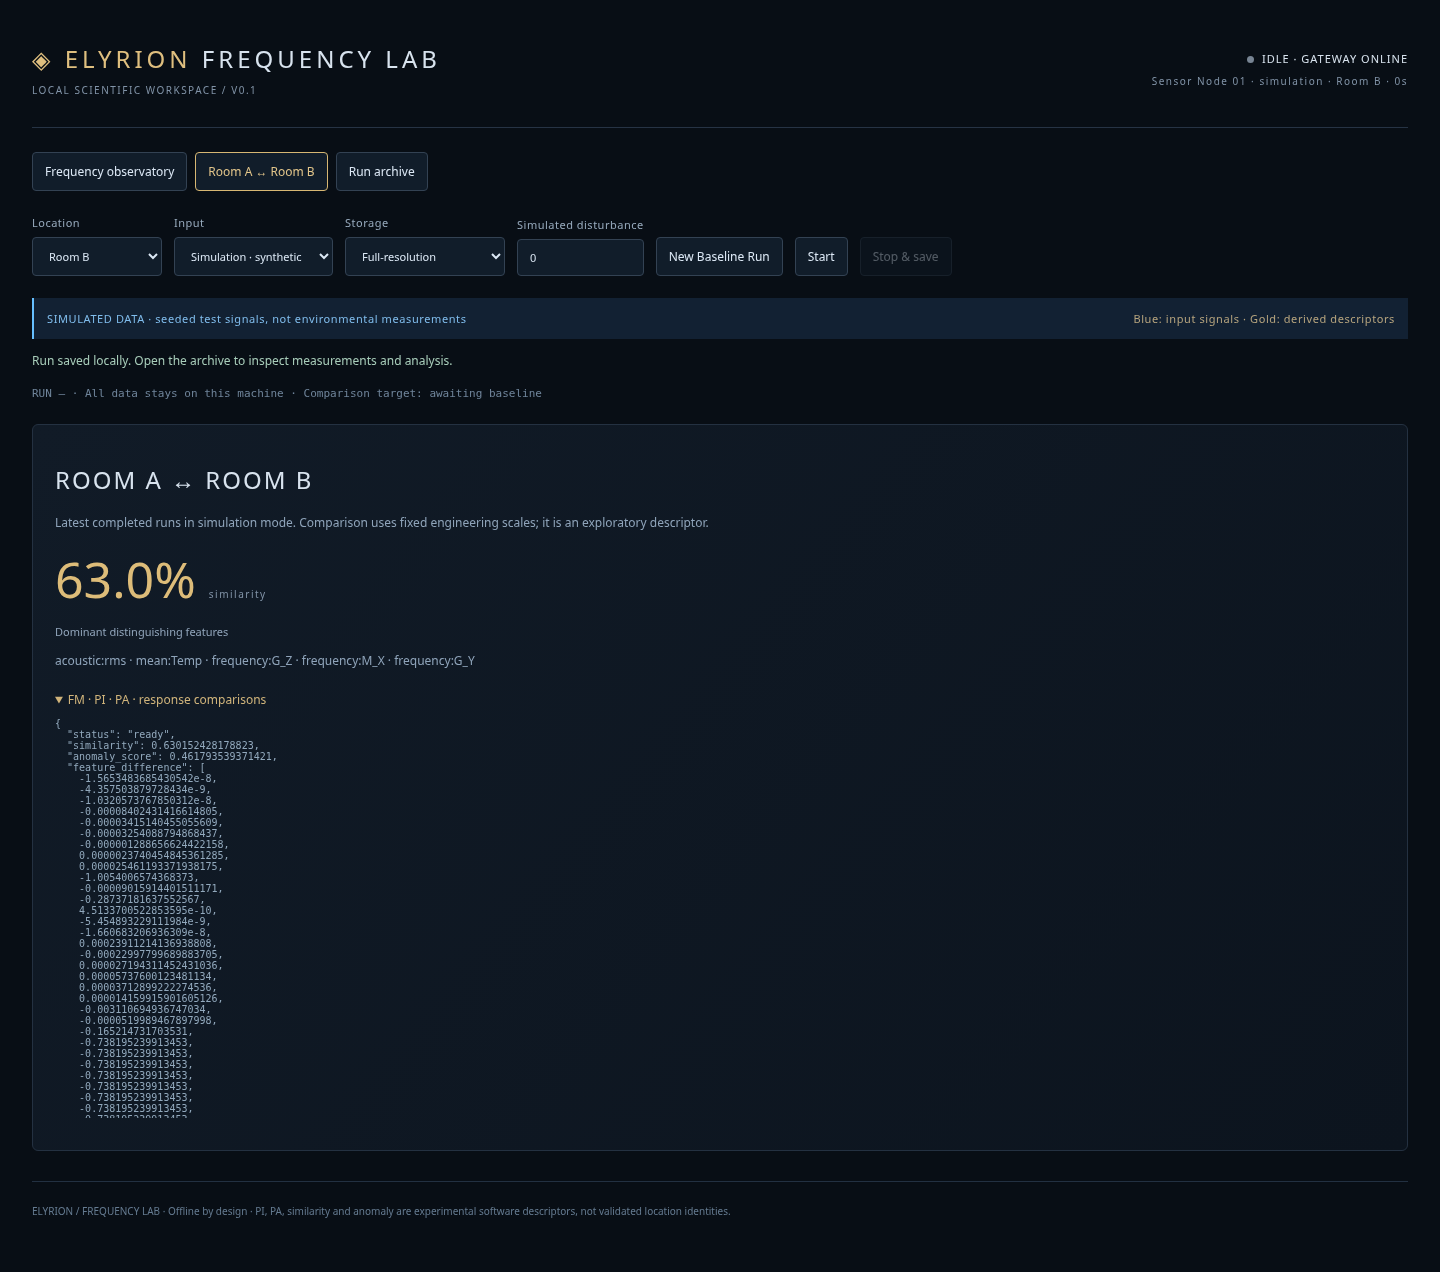
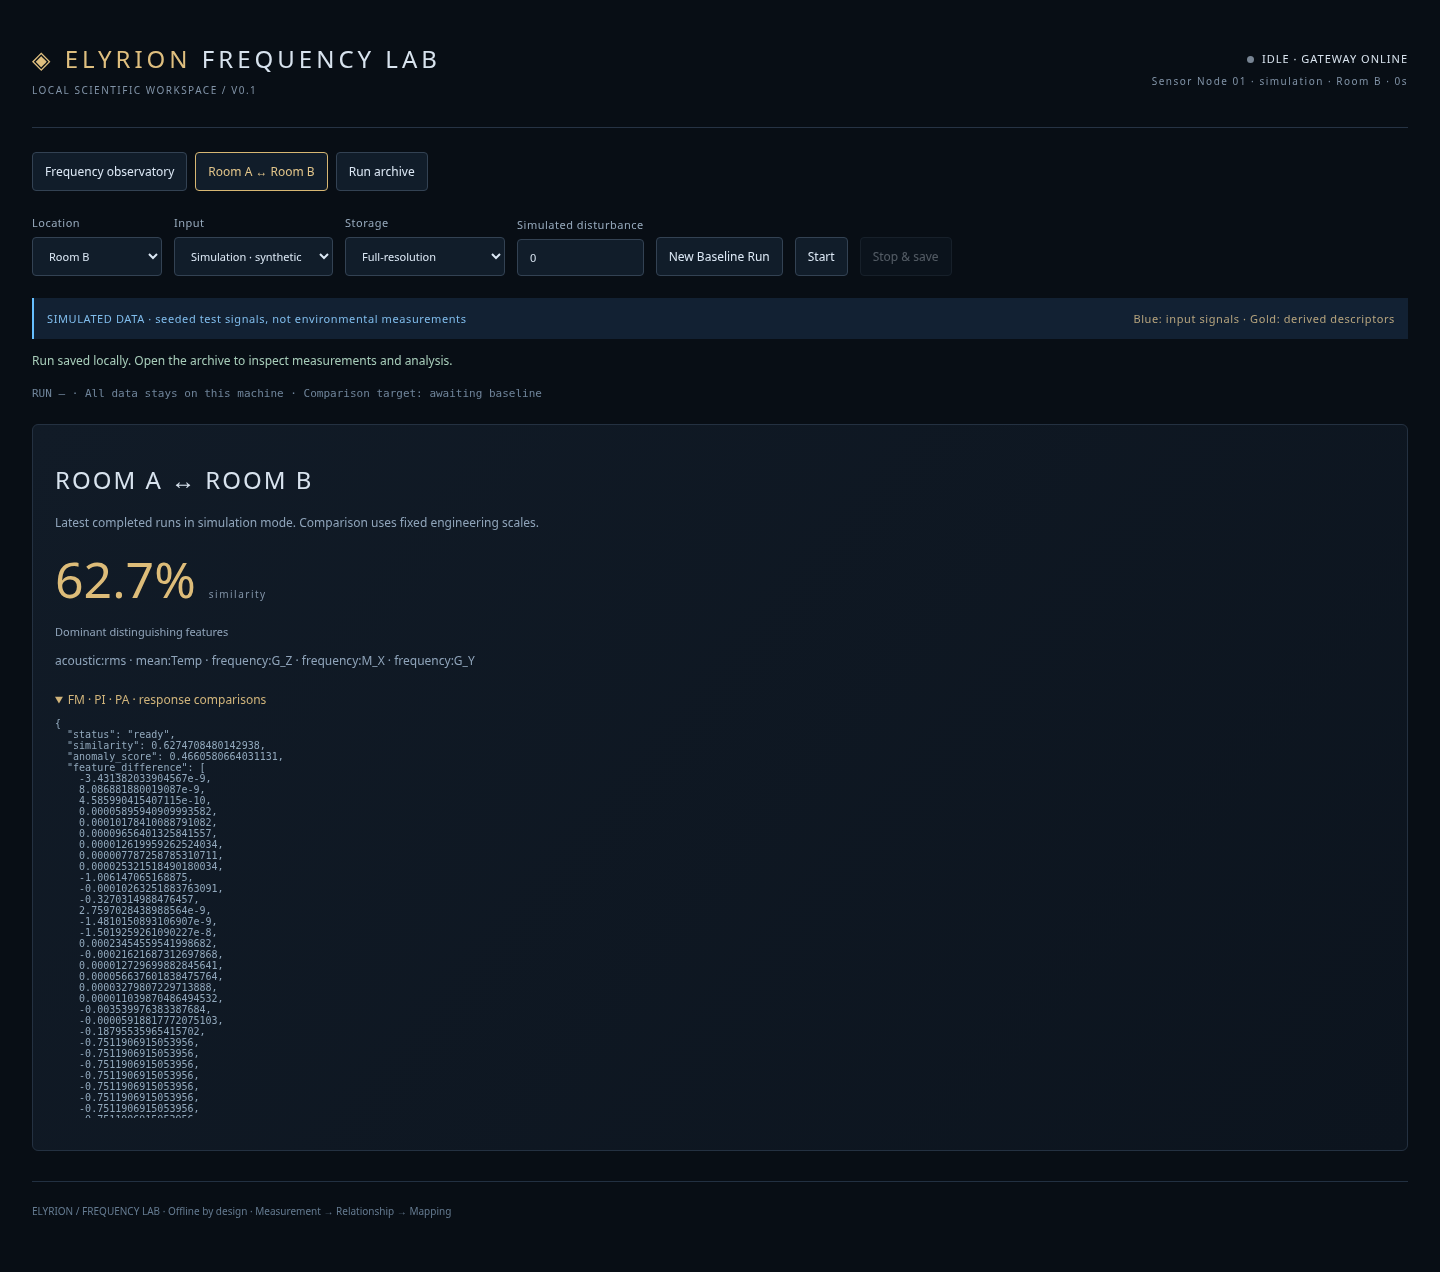
Use neutral PI and PA definitions and dashboard wording

diff --git a/ui/src/main.tsx b/ui/src/main.tsx
@@ -42,12 +42,12 @@ function App(){
   <div className="notice">{(live.run?.source??source)==='simulation'?'SIMULATED DATA · seeded test signals, not environmental measurements':'HARDWARE MODE · uncalibrated channels must not be interpreted as calibrated measurements'} <span>Blue: input signals · Gold: derived descriptors</span></div>
   {error&&<div role="alert" className="error">{error}</div>}{live.error&&<div role="alert" className="error">Acquisition: {live.error}</div>}{message&&<p role="status" className="message">{message}</p>}
   <div className="runid">RUN {live.run?.id??'—'} · All data stays on this machine · Comparison target: {live.comparison_target??'awaiting baseline'}</div>
-  {view==='compare'?<section className="panel"><h1>ROOM A ↔ ROOM B</h1><p>Latest completed runs in {source} mode. Comparison uses fixed engineering scales; it is an exploratory descriptor.</p>{comparison?.status==='ready'?<><div className="big gold">{(comparison.similarity*100).toFixed(1)}% <small>similarity</small></div><h3>Dominant distinguishing features</h3><p>{comparison.dominant_features.join(' · ')}</p><details open><summary>FM · PI · PA · response comparisons</summary><Json value={comparison}/></details></>:<p>{comparison?.status??'Loading'}</p>}</section>:<>
+  {view==='compare'?<section className="panel"><h1>ROOM A ↔ ROOM B</h1><p>Latest completed runs in {source} mode. Comparison uses fixed engineering scales.</p>{comparison?.status==='ready'?<><div className="big gold">{(comparison.similarity*100).toFixed(1)}% <small>similarity</small></div><h3>Dominant distinguishing features</h3><p>{comparison.dominant_features.join(' · ')}</p><details open><summary>FM · PI · PA · response comparisons</summary><Json value={comparison}/></details></>:<p>{comparison?.status??'Loading'}</p>}</section>:<>
   {view==='archive'&&<section className="panel"><h1>Run archive</h1>{runs.length===0&&<p>No recorded runs yet.</p>}<div className="runlist">{runs.map(r=><button key={r.id} onClick={()=>act(async()=>setArchive(await api('runs/'+r.id)))}>{r.room} · {r.source} · {r.status}<small>{r.started_at} · {r.id.slice(0,8)}</small></button>)}</div>{archive&&<><h3>{archive.run.room} / {archive.run.id}</h3><details><summary>Events, response functions, metadata, raw measurements</summary><Json value={archive}/></details></>}</section>}
   <div className="cards">{[['Frequency Map',fm?.status??'Collecting baseline'],['Persistent Invariant',(archive?.pi??live.pi)?.status??'Insufficient runs for PI'],['Dynamic State',pa?.dynamic?'Relative to PI available':'Requires qualifying PI'],['Pulse Address',pa?.status??'PA preliminary'],['Similarity to Baseline',view==='archive'?'See recorded state':live.baseline?.similarity!=null?`${(live.baseline.similarity*100).toFixed(1)}%`:live.baseline?.status??'Collecting baseline'],['Anomaly Score',view==='archive'?'See recorded state':live.baseline?.anomaly_score?.toFixed(3)??'Requires baseline'],['Response Function',live.post_window_pending?'Collecting post-window':(archive?.responses?.at(-1)??live.response)?.status??'No perturbation recorded'],['Comparison Target',view==='archive'?archive?.run?.room??'Select run':live.comparison_target?.slice(0,8)??'Requires baseline']].map(([title,value])=><section className="panel metric" key={title}><h2>{title}</h2><div className="gold">{value}</div></section>)}</div>
   <div className="grid"><section className="panel"><h2>Sensor state / live traces</h2><div className="channels">{['M_X','M_Y','M_Z','A_X','A_Y','A_Z','G_X','G_Y','G_Z','Temp','H','Pressure'].map(c=><div key={c}><h3>{c} <span>{traces.at(-1)?.values[c]?.toPrecision(5)??'—'} {live.units?.[c]}</span></h3><Trace values={traces.map((f:Data)=>f.values[c])}/></div>)}</div></section><section className="panel"><h2>Acoustic field</h2><p>Digital RMS: {fm?.acoustic?.rms?.toFixed(5)??'—'} · Not calibrated dB SPL</p><Trace values={traces.map((f:Data)=>f.acoustic_rms??Math.sqrt(f.acoustic_samples.reduce((s:number,v:number)=>s+v*v,0)/f.acoustic_samples.length))}/><h3>Power spectral density / 0–{(live.latest?.acoustic_sampling_rate??8000)/2000} kHz</h3><Trace color="#d9b971" values={fm?.acoustic?.psd?.map((v:number)=>10*Math.log10(Math.max(v,1e-12)))??[]}/><h3>Spectrogram</h3>{fm?.acoustic?.spectrogram?<Spectrogram data={fm.acoustic.spectrogram}/>:<p>Collecting acoustic window</p>}<details><summary>Frequency Map / relationships / Pulse Address</summary><Json value={{fm,pa,pi:archive?.pi??live.pi,response:archive?.responses??live.response}}/></details></section></div>
   {view==='live'&&<div className="grid"><section className="panel"><h2>Event marker</h2><label>Event<select value={kind} onChange={e=>setKind(e.target.value)}>{events.map(e=><option key={e}>{e}</option>)}</select></label><label>Notes<textarea value={note} onChange={e=>setNote(e.target.value)} placeholder="Observation, context, or custom note"/></label><button disabled={!live.run} onClick={()=>act(async()=>{const e=await api('events',{kind,note});setMessage(`${kind} recorded at ${e.timestamp}`);setNote('')})}>Mark event</button><button disabled={!live.run} onClick={()=>act(async()=>{await api(`raw/${!live.manual_raw}`,{});setMessage(live.manual_raw?'Manual raw retention stopped':'Manual raw retention started')})}>{live.manual_raw?'Stop raw interval':'Retain raw interval'}</button></section><section className="panel"><h2>Acoustic perturbation</h2><p>Browser audio → laptop output → wired speaker. Start at low volume. Simulation injects a synthetic tone as well.</p><label>Waveform<select value={tone.kind} onChange={e=>setTone({...tone,kind:e.target.value})}>{['single','stepped','linear','logarithmic'].map(k=><option key={k}>{k}</option>)}</select></label><div className="tonefields">{Object.entries(tone).filter(([k])=>k!=='kind').map(([k,v])=><label key={k}>{k.replaceAll('_',' ')}<input type="number" step="any" value={v} onChange={e=>setTone({...tone,[k]:Number(e.target.value)})}/></label>)}</div><button disabled={!live.run||!!live.perturbation||live.post_window_pending} onClick={()=>act(perturb)}>Start Acoustic Perturbation</button><button disabled={!live.perturbation} onClick={()=>act(async()=>{stopAudio();await api('perturbations/stop',{})})}>Stop Acoustic Perturbation</button><p className="gold">{live.perturbation?'Tone active · recording response':live.post_window_pending?'Collecting post-window · keep run active':'Pre/during/post windows are stored with the run.'}</p></section></div>}
   </>}
-  <footer>ELYRION / FREQUENCY LAB · Offline by design · PI, PA, similarity and anomaly are experimental software descriptors, not validated location identities.</footer></main>
+  <footer>ELYRION / FREQUENCY LAB · Offline by design · Measurement → Relationship → Mapping</footer></main>
 }
 createRoot(document.getElementById('root')!).render(<React.StrictMode><App/></React.StrictMode>);

diff --git a/lab/engine.py b/lab/engine.py
@@ -1,4 +1,4 @@
-"""Deterministic, versioned exploratory descriptors; no physical identity claims."""
+"""Deterministic, versioned signal analysis and relational state descriptors."""
 import hashlib
 import json
 import numpy as np
@@ -75,7 +75,7 @@ def persistent_invariant(maps):
         return {"status": "Insufficient runs for PI", "qualifying_runs": len(qualifying)}
     vectors = np.array([m["feature_vector"] for m in qualifying])
     spread = float(np.mean(np.std(vectors / FEATURE_SCALES, axis=0)))
-    return {"status": "ready", "method": "median-0.1", "feature_vector": np.median(vectors, axis=0).tolist(), "confidence": float(1 / (1 + spread)), "confidence_definition": "heuristic repeatability, not statistical confidence", "qualifying_runs": len(qualifying), "environmental_conditions": [m["sensor_state"] for m in qualifying]}
+    return {"status": "ready", "method": "median-0.1", "feature_vector": np.median(vectors, axis=0).tolist(), "confidence": float(1 / (1 + spread)), "confidence_definition": "heuristic repeatability score", "qualifying_runs": len(qualifying), "environmental_conditions": [m["sensor_state"] for m in qualifying]}
 
 
 def state(fm, pi):

diff --git a/docs/methods.md b/docs/methods.md
@@ -4,13 +4,13 @@ All analysis functions are pure numerical functions of supplied frames. Acquisit
 
 - **S(L,T):** mean canonical sensor channels over the window. Magnetic flux density is T; acceleration m/s²; angular velocity rad/s; temperature K; humidity a 0–1 fraction; pressure Pa. Audio is normalized digital amplitude, not calibrated pressure.
 - **C=(F,A,P):** remove the mean, apply a Hann window, use real FFT. Select the largest non-DC bin, use `2|FFT|/sum(window)` amplitude, and the bin's complex phase. A separate Welch PSD uses up to 256 samples per segment. Frequency resolution is constrained by the recording duration; V0.1 does not interpolate peaks.
-- **H:** ratio of dominant frequencies. Near-integer harmonics use an absolute ratio tolerance of 0.05. This is a descriptor, not proof of a common physical source.
+- **H:** ratio of dominant frequencies. Near-integer harmonics use an absolute ratio tolerance of 0.05.
 - **PR/COH/CPL:** predefined M_X/M_Y, M_X/A_X, A_X/A_Y, A_X/G_X pairs. Phase is the negative phase of the cross spectral density at a common bin closest to the first channel's dominant frequency. Magnitude-squared coherence uses overlapping segments of at most 64 samples, never a single whole-record segment. Coupling is Pearson correlation; cross-correlation lag is the peak of the demeaned full correlation. Undefined coherence/coupling on constant signals is null.
 - **FM:** S, C, R plus a feature vector: 12 means, 12 standard deviations, 9 motion/magnetic dominant frequencies, audio RMS, audio dominant frequency. At least 80 frames are required; inter-frame timing deviating by more than 10% from the declared rate yields an explicit resampling-required state, rather than fabricated results. V0.1 does not resample irregular hardware data.
 - **Normalization:** fixed scales in channel order: 2 µT, 0.03 m/s², 0.004 rad/s for their three-axis groups; 1 K, 0.01 humidity fraction, 100 Pa; 1 Hz per motion frequency; 0.01 audio RMS and 1000 Hz acoustic frequency. These engineering scales must be revisited for calibrated hardware. Similarity is `exp(-RMS(normalized_difference))`; anomaly score is that RMS distance. Neither is a calibrated probability.
-- **PI:** median feature vector across at least three completed, unperturbed baseline runs, each with at least eight seconds of qualifying data, in the same room and source mode. Repeatability score `1/(1+mean(normalized_std))` is stored as heuristic confidence. Conditions and run count are retained. This modular V0.1 estimator is not evidence of a persistent physical location identity. Device/calibration equivalence is not yet enforced across separate physical baseline sessions: do not combine different devices/calibrations.
-- **D:** dimensionless, fixed-scale normalized FM feature differences from the PI. The additive FM=PI+D interpretation applies in normalized feature space, not to the entire nested map.
-- **PA:** versioned encoded PI, D, relationships and normalized FM vector with a deterministic SHA-256 identifier. Without PI, it is explicitly preliminary. It is not a geographic address, authentication token, or validated unique signature.
+- **PI:** median feature vector across at least three completed, unperturbed baseline runs, each with at least eight seconds of qualifying data, in the same room and source mode. Repeatability score `1/(1+mean(normalized_std))` is stored as heuristic confidence. Conditions and run count are retained. Device/calibration equivalence is not yet enforced across separate physical baseline sessions: do not combine different devices/calibrations.
+- **D:** dimensionless, fixed-scale normalized FM feature differences from the PI. The additive FM=PI+D interpretation applies to normalized feature vectors.
+- **PA:** Pulse Address V0.1 is a relational state representation. Store its normalized feature vector and identifiers.
 - **RFN:** timestamp-selected pre/during/post maps; stored physical-unit feature differences and normalized comparisons (`post-pre`, `during-pre`), with residual vs pre and change since during as recovery descriptors. This is an endpoint recovery comparison, not a fitted recovery-time constant. Short/invalid windows produce insufficient status. Input frequency, end frequency, digital amplitude, duration, software onset/offset, and actuation source are stored.
 - **Room comparison:** latest qualifying completed FM in each room for the selected source; normalized feature difference, similarity, largest differing features, common/differing pair coherence and wrapped phase deltas. Shared relationship thresholds are coherence delta <0.1 and phase delta <0.2 rad. PI, PA, and stored RFNs are included. Different environmental conditions remain possible confounders; collecting many independent runs is necessary before interpreting repeatability.
 

diff --git a/README.md b/README.md
@@ -1,6 +1,6 @@
 # ELYRION FREQUENCY LAB / V0.1
 
-A standalone, offline sensor-acquisition and exploratory signal-analysis lab. This checkout has no connections to Elyrion/WAV production, W.I., Auth, Founder Presence, Airwallex, Otharis, Supabase, or Netlify. No accounts, cloud database, production secrets, telemetry, or CDN assets are needed.
+A standalone, offline sensor-acquisition and signal-analysis lab. This checkout has no connections to Elyrion/WAV production, W.I., Auth, Founder Presence, Airwallex, Otharis, Supabase, or Netlify. No accounts, cloud database, production secrets, telemetry, or CDN assets are needed.
 
 ## Start here
 
@@ -19,7 +19,7 @@ Windows: `python -m venv .venv`, `.venv\Scripts\python -m pip install -r require
 ## First experiment
 
 1. Select **Simulation · synthetic**, **Room A**, and **Full-resolution** storage.
-2. Click **New Baseline Run**. Wait at least 8 seconds, then **Stop & save**. Repeat three qualifying baseline runs in the same room and input mode to produce the experimental PI descriptor.
+2. Click **New Baseline Run**. Wait at least 8 seconds, then **Stop & save**. Repeat three qualifying baseline runs in the same room and input mode to produce the PI descriptor.
 3. Record Room B. Choose **Room A ↔ Room B** to compare the most recent completed qualifying run in each room. Hardware and simulated runs are never mixed for comparison or PI.
 4. On another run, wait at least the configured pre-window (default 4 seconds), then **Start Acoustic Perturbation**. Keep recording for the tone duration **and** post-window. Defaults: 4 + 4 + 4 seconds. Shortened/incomplete windows are explicitly marked insufficient.
 5. Add event markers or custom notes. **Run archive** reopens measurements, traces, timestamps, FM/PI/D/PA descriptors, summaries, and response records after application restarts.
